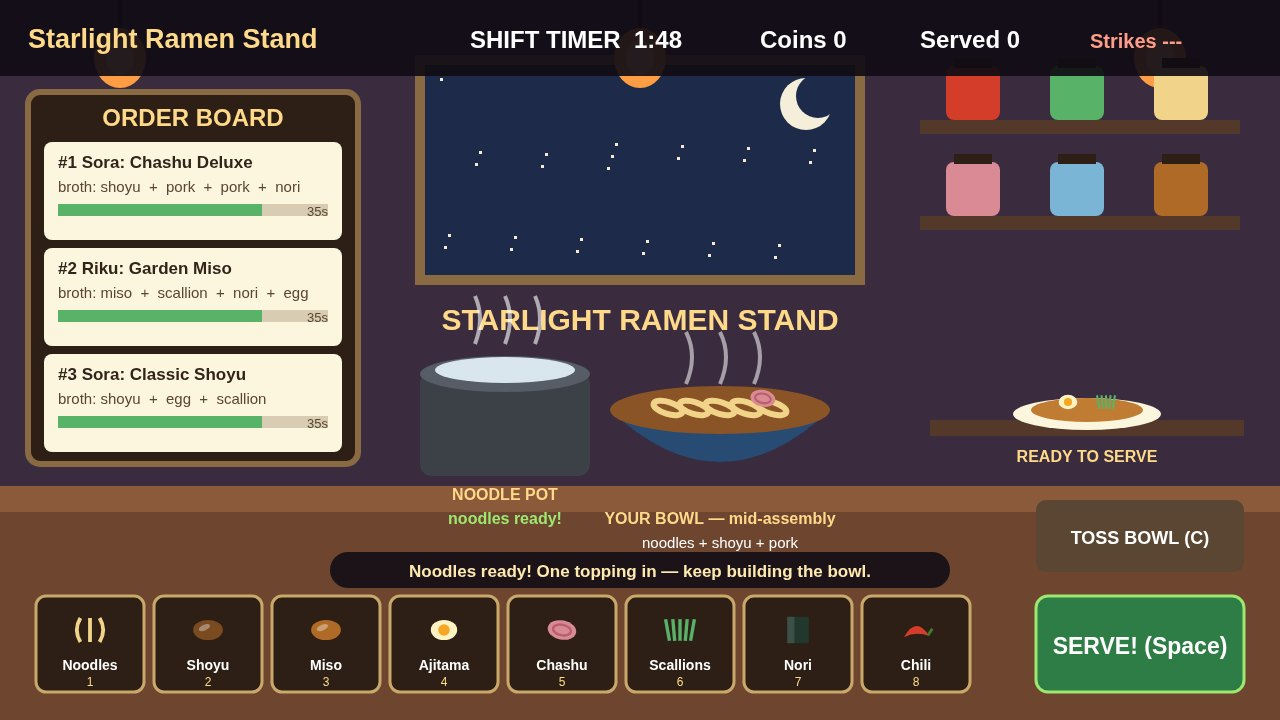
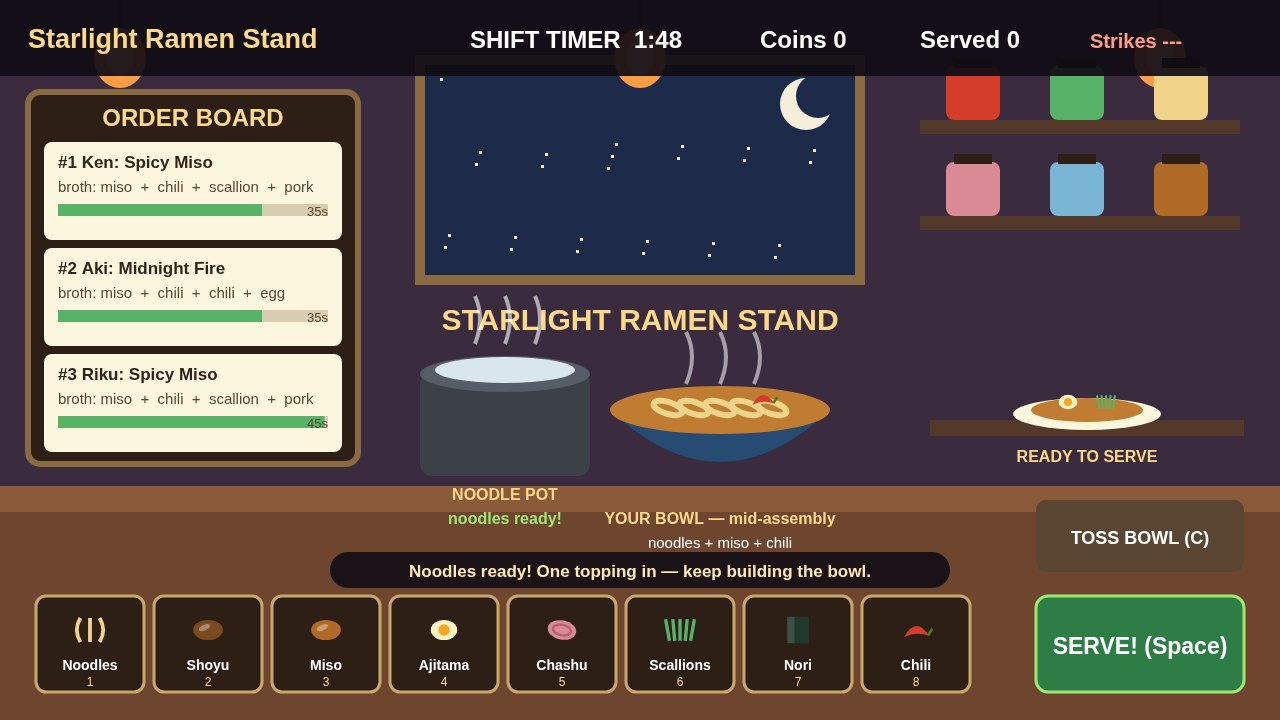
Fix Quick-reviewed bugs: cap strikes at shift end, delay third order, cancel noodle timer on toss

diff --git a/game/src/world.js b/game/src/world.js
@@ -82,7 +82,7 @@ export function createWorld(random) {
     state.noodleReady = false;
     state.message = 'Click an ingredient, or press its number key!';
     state.messageTimer = 0;
-    state.nextOrderIn = 0;
+    state.nextOrderIn = 9 + random() * 6;
     state.over = false;
     state.lastServe = null;
     spawnOrder();
@@ -117,6 +117,7 @@ export function createWorld(random) {
   function clearBowl() {
     state.bowl = [];
     state.noodleReady = false;
+    state.noodleTimer = 0;
     say('Bowl tossed. Fresh start!');
   }
 
@@ -176,6 +177,14 @@ export function createWorld(random) {
         state.strikes += 1;
         state.combo = 0;
         say(`${order.customer} walked out! Strike ${state.strikes}/${MAX_STRIKES}.`);
+        if (state.strikes >= MAX_STRIKES) {
+          // End the shift at once: without this break, several tickets
+          // expiring in the same step could push strikes past the max
+          // and the HUD's strike pips would be drawn with a negative
+          // repeat count.
+          state.over = true;
+          break;
+        }
         spawnOrder();
       }
     }

diff --git a/game/src/render.js b/game/src/render.js
@@ -190,7 +190,8 @@ function drawHud(ctx, state, screen) {
   text(ctx, `SHIFT TIMER  ${mins}:${String(secs).padStart(2, '0')}`, 470, 48, 24, state.timeLeft < 20 ? '#ff7a6b' : '#ffffff', 'left', true);
   text(ctx, `Coins ${state.coins}`, 760, 48, 24, '#ffffff', 'left', true);
   text(ctx, `Served ${state.served}`, 920, 48, 24, '#ffffff', 'left', true);
-  text(ctx, `Strikes ${'X'.repeat(state.strikes)}${'-'.repeat(Math.max(0, MAX_STRIKES - state.strikes))}`, 1090, 48, 20, '#ff9d8a', 'left', true);
+  const strikeShown = Math.min(state.strikes, MAX_STRIKES);
+  text(ctx, `Strikes ${'X'.repeat(strikeShown)}${'-'.repeat(MAX_STRIKES - strikeShown)}`, 1090, 48, 20, '#ff9d8a', 'left', true);
   if (state.combo >= 2) text(ctx, `Combo x${state.combo}`, 470, 70, 14, '#9fe870', 'left', true);
 }
 

diff --git a/game/src/main.js b/game/src/main.js
@@ -153,7 +153,6 @@ function runGame() {
       }
     } else {
       accumulator = 0;
-      if (screen === SCREEN_TITLE) world.step(0); // keep the staged kitchen still
     }
     renderer.draw(world.state, screen, best);
   }
